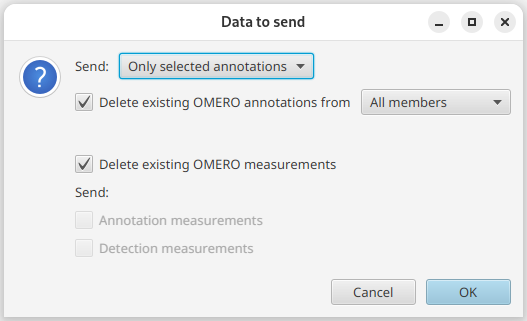
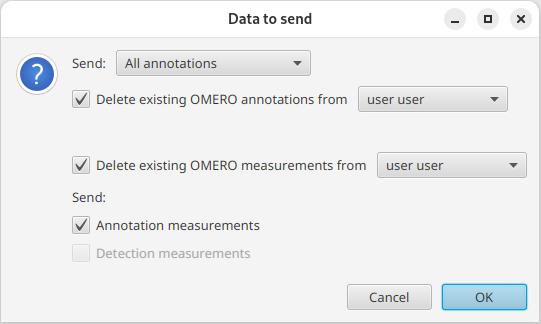
updated to latest version of OMERO extension

diff --git a/docs/advanced/omero.md b/docs/advanced/omero.md
@@ -104,12 +104,13 @@ The extension can use three different methods (called 'pixel APIs') to retrieve 
 - The **web** pixel API: this method is enabled by default and is available on every OMERO server. It is fast but only 8-bit RGB images can be read, and they are JPEG-compressed. This effectively means it is most useful for viewing and annotating RGB images (including whole slide images), but is not suitable for quantitative analysis where JPEG compression artifacts would be problematic.
 - The **Ice** pixel API: this method can read every image and access raw pixel values, so it doesn't have the limitations of the web pixel API. However, you have to install additional dependencies to enable it. Take a look at the [extension page](https://github.com/qupath/qupath-extension-omero) to see how to install them.
   - Note that it is not possible to use the Ice pixel API when accessing an OMERO server with a public account, you have to be authenticated.
-  - If you can't open any image with the Ice pixel API, it may be because the OMERO.server instance is on a different server than the OMERO.web instance. You can define a different address and port to the OMERO.server in the settings of the extension, accessible in the browser:
+  - If you can't open any image with the Ice pixel API, it may be because the OMERO.server instance is on a different server than the OMERO.web instance. You can define a different address and port to the OMERO.server in the settings of the extension, accessible in the browser (these parameters will only be used if the extension cannot by itself determine the address of the OMERO.server):
 
   :::{figure} images/omero_ice_settings.png
   :class: shadow-image small-image
   Setting the address and port of an OMERO.server instance
   :::
+
   
   - Note that two images belonging to two different groups of the same server cannot currently be read at the same time with the Ice pixel API (see [this issue](https://github.com/ome/omero-gateway-java/issues/98)). Also, consecutively opening images of different groups can create problems (see [this issue](https://github.com/ome/omero-gateway-java/issues/99)).
 - The **pixel data microservice** API: this method can read every image and access raw pixel values, without the limitations of the Ice pixel API. However, you need to install [this plugin](https://github.com/glencoesoftware/omero-ms-pixel-buffer) on the OMERO server. If this plugin is installed and the OMERO extension cannot detect it, check that the port indicated in the settings of the extension corresponds to the port used by the microservice on the OMERO server (by default `8082`).
@@ -179,7 +180,7 @@ The extension can send annotations to the OMERO server. To do so, select the ann
   - Parameter selection
 ::::
 
-You have the possibility to delete annotations already present on the OMERO server. Since some groups allow multiple users to send annotations to the same image, you can delete the annotations of all or of one specific user. Deleting annotations of different users might not always work due to permissions.
+You have the possibility to delete annotations already present on the OMERO server. Since some groups allow multiple users to send annotations to the same image, you can delete the annotations of all or of one specific user. Note that you will only see users for whom you have sufficient permissions to delete annotations.
 
 :::{Note}
 The user interface only lets the possibility to send annotations, not detections. This is because OMERO does not well support sending thousands of objects. If you do so, you might make the entire server unresponsive.
@@ -195,7 +196,7 @@ An annotation on the OMERO server
 
 :::
 
-If the QuPath image contains annotation or detection measurements (see {menuselection}`Measure --> Show annotation measurements` or {menuselection}`Measure --> Show detection measurements`), they can also be sent to the OMERO server. They will be stored as `Attachments` on the OMERO server.
+If the QuPath image contains annotation or detection measurements (see {menuselection}`Measure --> Show annotation measurements` or {menuselection}`Measure --> Show detection measurements`), they can also be sent to the OMERO server. They will be stored as `Attachments` on the OMERO server. As with annotations, you can delete existing measurements of a specific user or of all users.
 
 :::{figure} images/omero_measurements_attachment.png
 :class: shadow-image small-image
@@ -223,7 +224,10 @@ Each image of a QuPath project has metadata (which consist of key-value pairs) a
   - Parameter selection
 ::::
 
-You can select which pairs to send, as well as how to proceed if two keys are duplicate. An OMERO server can store multiple keys, while keys in QuPath are unique.
+You can select which pairs to send, as well as how to proceed if two keys are duplicate. An OMERO server can store multiple keys, while keys in QuPath are unique:
+
+ - If you choose "Replace existing key-value pairs", all existing keys will be replaced and a new bloc of key-value pairs will be created for new keys.
+ - If you choose "Keep existing key-value pairs", a new bloc of key-value pairs is created with the new values.
 
 In OMERO, key-value pairs can be grouped by a `namespace`. You can choose which namespace to use when sending key-value pairs.
 
@@ -317,7 +321,7 @@ In OMERO, key-value pairs can be grouped by a `namespace`. You can select which 
 QuPath metadata can only have unique keys. Therefore, you can specify what to do when a duplicate happens.
 
 :::{Note}
-When importing an image to a QuPath project from the browser (see the [Browsing an OMERO server](omero-browsing) section), key-value pairs and the parent dataset ID/name of the OMERO image are automatically imported. This can be disabled by unchecking {menuselection}`Edit --> Preferences... --> OMERO extension --> Automatically import key-value pairs and parent dataset information`.
+When importing an image to a QuPath project from the browser (see the [Browsing an OMERO server](omero-browsing) section), key-value pairs of the default namespace and the parent dataset ID/name of the OMERO image are automatically imported. This can be disabled by unchecking {menuselection}`Edit --> Preferences... --> OMERO extension --> Automatically import key-value pairs of default namespace and parent dataset information`.
 :::
 
 :::{caution}
